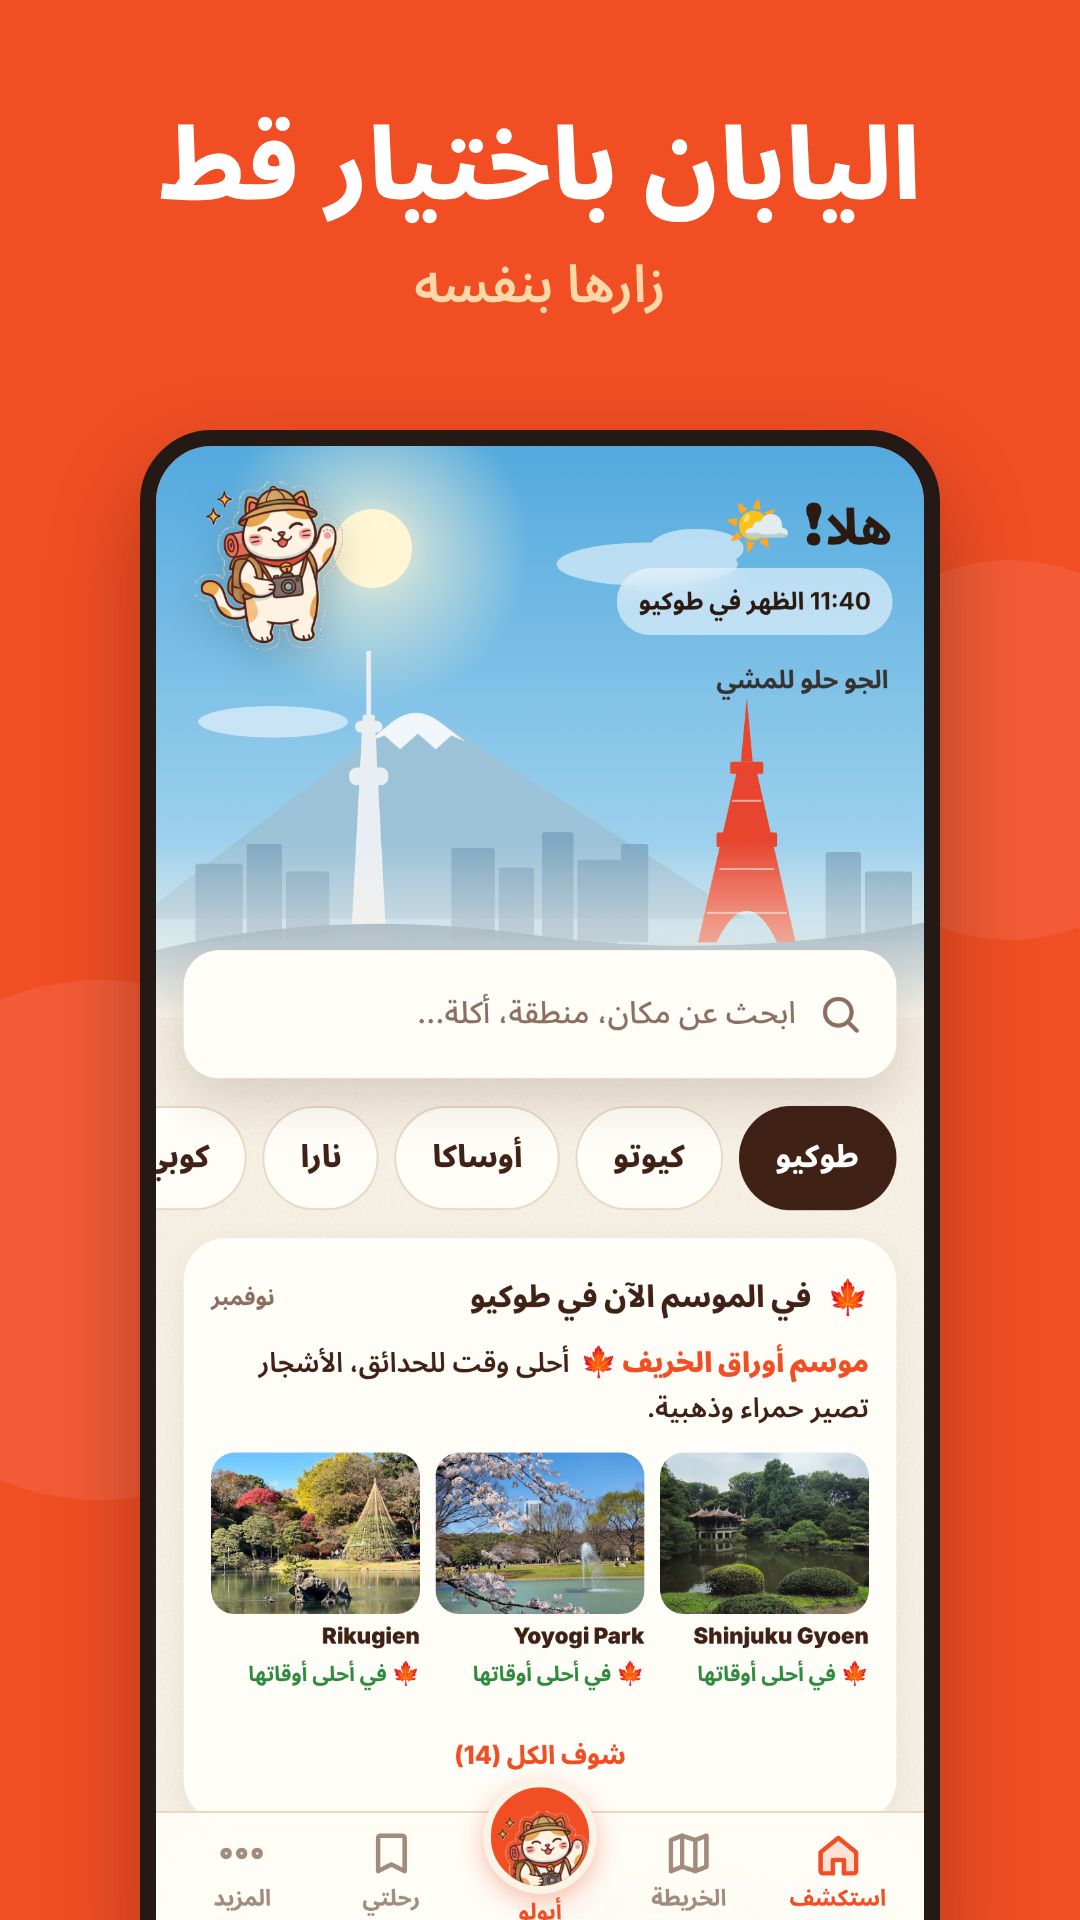
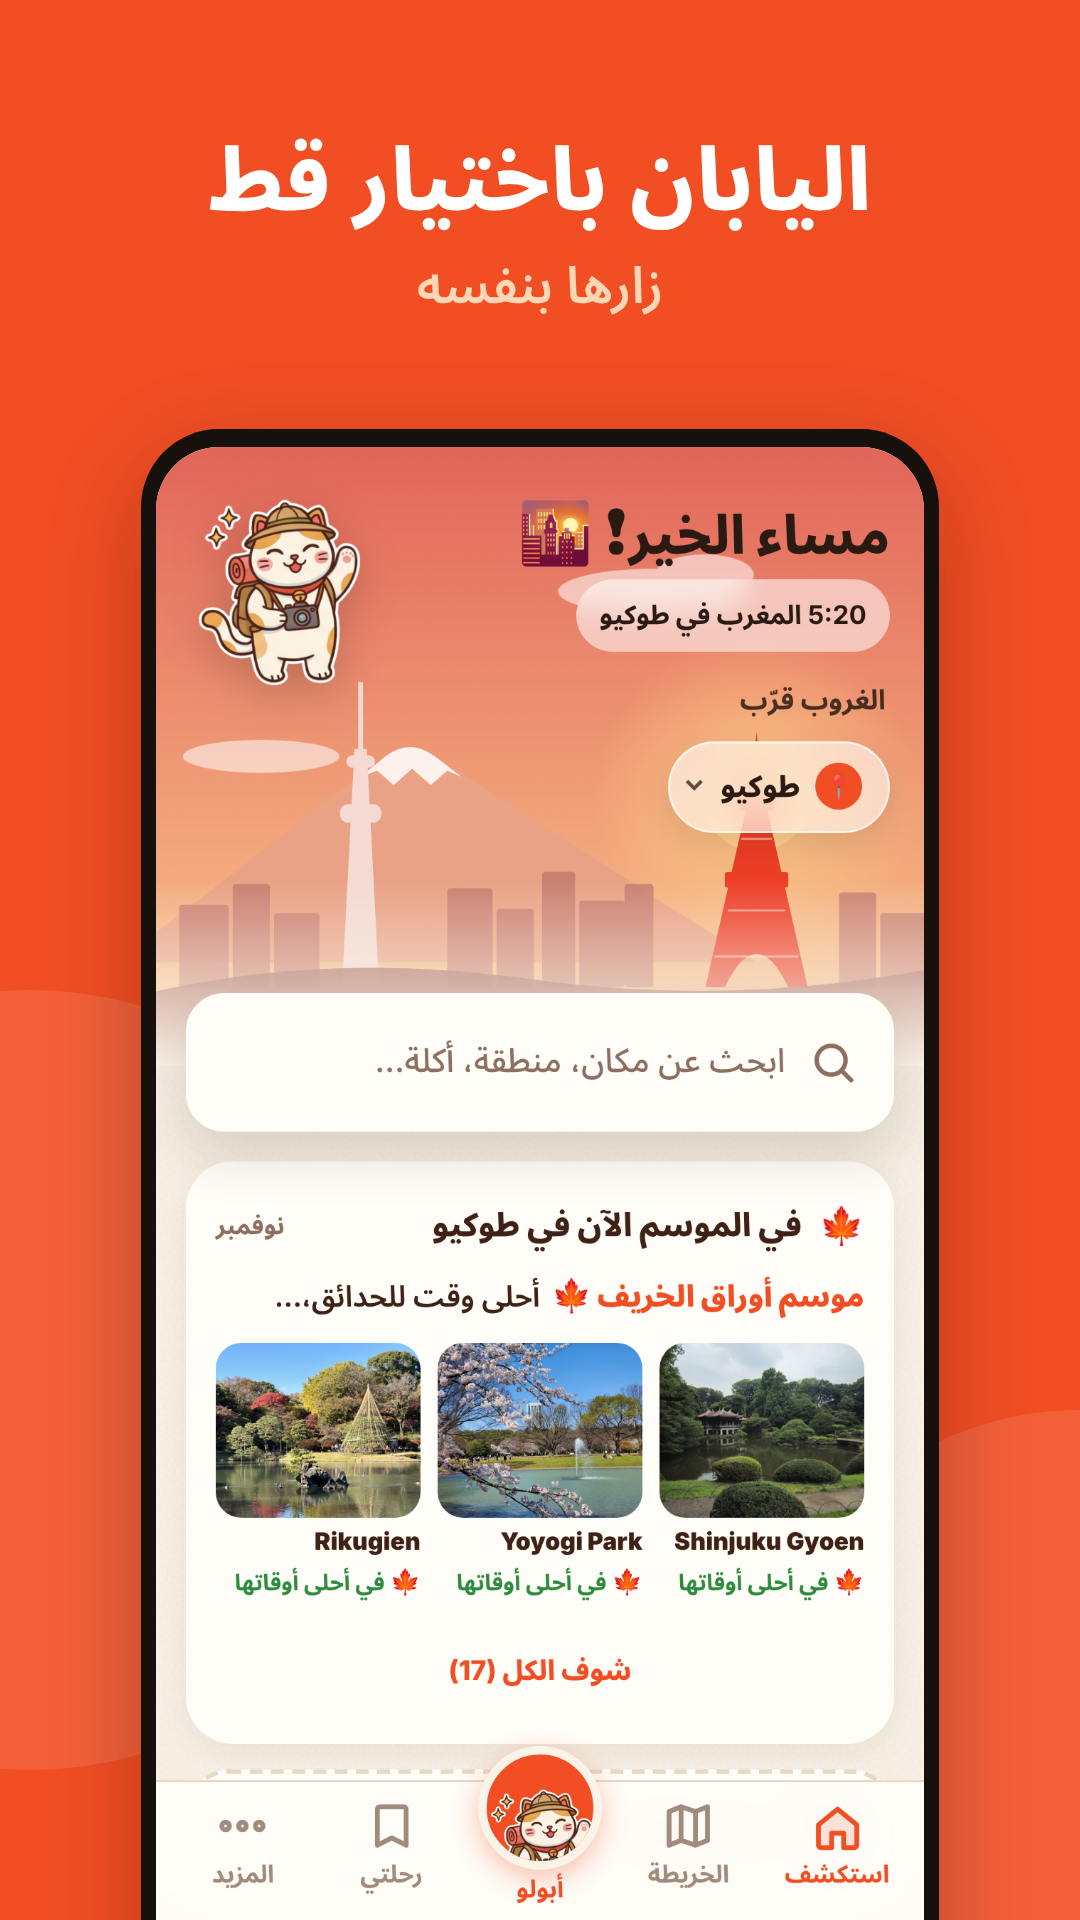
Store graphics: App Store and Google Play screenshots, artwork and listing (#249)
* App Store: screenshots and artwork in English and Arabic

- store/app-store/screenshots/: five screenshots per device for iPhone
  6.9" and 6.5", iPad 13" (the two-pane tablet layout) and iPhone Duo
  folded and unfolded, in English and Arabic (right to left)
- store/app-store/artwork/: the App Store header (5244 x 2950) and
  search-results art (3840 x 2560), in both languages
- Every screen is the real app rendered at the device's size with
  made-up data; all PNGs are RGB with no transparency
- README: which folder goes in which App Store Connect slot, captions,
  and what was faked

Claude-Session: https://claude.ai/code/session_01GUJMY1FFnvH9C1ioTGjtKc

* Store graphics: new screenshots for the App Store and Google Play

- App Store (store/app-store): all five devices in English and Arabic
  retaken with the new Explore (the city pill, the shorter "Start your
  trip" card, Restaurants as the first mood). The other screens didn't
  change, so their files are the same. Header and search-results art
  updated too, since they show Explore.
- Google Play (store/google-play/graphics): the seven phone screenshots
  in English and Arabic remade from the current app in the same layout
  and colours, and the feature graphic says 500+ places (now 511).
- listing.md: the screenshot list says 500+ places to match.

Claude-Session: https://claude.ai/code/session_01GUJMY1FFnvH9C1ioTGjtKc

* Play listing: 500+ places instead of 498
[…]

diff --git a/store/app-store/README.md b/store/app-store/README.md
@@ -1,0 +1,56 @@
+# App Store screenshots and artwork
+
+Everything to upload in App Store Connect: **your app → Distribution → the
+version → App Previews and Screenshots**. English is the default language;
+add Arabic under **App Information → Localizable Information → Arabic** and
+upload the `ar` set there.
+
+All files are PNG, RGB with no transparency, at the exact sizes below. Upload
+each folder's files in order (`01` … `05`). The first three show in search
+results, so they carry the main features.
+
+## Screenshots
+
+| Folder | Size (px) | App Store Connect slot |
+|---|---|---|
+| `screenshots/<lang>/iphone-6.9` | 1290 × 2796 | iPhone 6.9″ |
+| `screenshots/<lang>/iphone-6.5` | 1242 × 2688 | iPhone 6.5″ |
+| `screenshots/<lang>/ipad-13` | 2064 × 2752 | iPad 13″ |
+| `screenshots/<lang>/iphone-duo-folded` | 1398 × 2034 | iPhone Duo, folded screen |
+| `screenshots/<lang>/iphone-duo-unfolded` | 2007 × 2853 | iPhone Duo, unfolded screen |
+
+`<lang>` is `en` or `ar`. Upload only the Duo set App Store Connect asks for.
+
+The five screenshots, in order:
+
+| # | English | Arabic |
+|---|---|---|
+| 1 | Japan, picked by a cat · *500+ places across 7 cities* | اليابان باختيار قط · *أكثر من 500 مكان في 7 مدن* |
+| 2 | Plan your trip · *day by day, with times and walks* | رتّب رحلتك · *يوم بيوم، بالأوقات والمشي* |
+| 3 | Ask Apollo anything · *and save his plan as a day* | اسأل أبولو · *واحفظ خطته كيوم في رحلتك* |
+| 4 | Halal Lens reads labels · *pork and alcohol flagged, on your phone* | عدسة الحلال · *تقرأ الملصق عنك* |
+| 5 | Collect stamps · *at Japan's famous places* | اجمع الأختام · *في كل اليابان* |
+
+Every phone and tablet screen is the real app (`?app=1`), rendered at the
+device's size with made-up data: the account "Sara" (سارة), the trip
+"Autumn in Tokyo" (خريف طوكيو), a scripted Apollo answer about places in
+the notebook, and a made-up snack label read by Halal Lens itself. No real
+names, emails, invite codes or QR codes are shown.
+
+## Header and search-results artwork
+
+| File | Size (px) |
+|---|---|
+| `artwork/header-en.png`, `artwork/header-ar.png` | 5244 × 2950 |
+| `artwork/search-results-en.png`, `artwork/search-results-ar.png` | 3840 × 2560 |
+
+Check these sizes in App Store Connect before uploading; Apple has changed
+them before. In the header, the headline and Apollo sit inside the part an
+iPhone always shows (x 1400–3800, y 850–1800); the background runs to the
+edges. No logos, URLs or prices, as Apple asks.
+
+## When the app changes
+
+The designs live on the Design canvas "Tabi Neko App Store Screenshots"
+(claude.ai). Retake the screens whose UI changed and export again at the
+sizes above.

diff --git a/store/google-play/listing.md b/store/google-play/listing.md
@@ -16,16 +16,16 @@ brackets.
 Tabi Neko: Japan Notebook
 ```
 
-**Short description** (76 of 80)
+**Short description** (77 of 80)
 ```
-Plan Japan day by day with Apollo the cat: 498 places, halal food and stamps
+Plan Japan day by day with Apollo the cat: 500+ places, halal food and stamps
 ```
 
 **Full description** (under 4,000)
 ```
 Tabi Neko is a travel notebook for Japan, written by someone who walked it. Apollo the cat is your guide: he picks the places and answers your questions, like a friend who has already been.
 
-🗺 498 PLACES, ALL IN ONE MAP
+🗺 500+ PLACES, ALL IN ONE MAP
 Tokyo, Kyoto, Osaka, Kobe, Nara, Kamakura and Ise. Coffee shops, ramen, temples, shrines, views, markets, vintage shops and hidden gems, each with a tip, a price and how long to spend there. See what's near you and what's open now.
 
 🗓 PLAN YOUR TRIP DAY BY DAY
@@ -65,16 +65,16 @@ Pick your travel buddy: Apollo the cat, Kenbo the eagle, Fa the duck, Lily the f
 تابي نيكو: دفتر رحلتك لليابان
 ```
 
-**Short description** (68 of 80)
+**Short description** (76 of 80)
 ```
-رتّب رحلتك لليابان يوم بيوم مع القط أبولو: 498 مكان، أكل حلال وأختام
+رتّب رحلتك لليابان يوم بيوم مع القط أبولو: أكثر من 500 مكان، أكل حلال وأختام
 ```
 
 **Full description** (under 4,000)
 ```
 تابي نيكو دفتر سفر لليابان، كتبه واحد مشى فيها بنفسه. القط أبولو هو دليلك: يختار لك الأماكن، ويجاوب على أسئلتك، كأنه صديق سبقك هناك.
 
-🗺 498 مكان في خريطة وحدة
+🗺 أكثر من 500 مكان في خريطة وحدة
 طوكيو، كيوتو، أوساكا، كوبي، نارا، كاماكورا وإيسه. كوفيهات، رامن، تمبلات، أضرحة، إطلالات، أسواق، محلات فنتج وأماكن مخفية، وكل مكان معه نصيحة وسعره وكم تحتاج وقت فيه. وتشوف إيش القريب منك وإيش المفتوح الحين.
 
 🗓 رتّب رحلتك يوم بيوم
@@ -133,7 +133,7 @@ The seven screenshots, in order:
 1. Explore: *Japan, picked by a cat who has been there*
 2. My trip: *Plan your trip day by day*
 3. Ask Apollo: *Ask Apollo, get a whole day plan*
-4. A place: *498 places, each with a tip*
+4. A place: *500+ places, each with a tip*
 5. Halal Lens: *Halal Lens reads labels for you*
 6. Stamp book: *Collect stamps all across Japan*
 7. Day trips: *Day trips by how far the train is*
